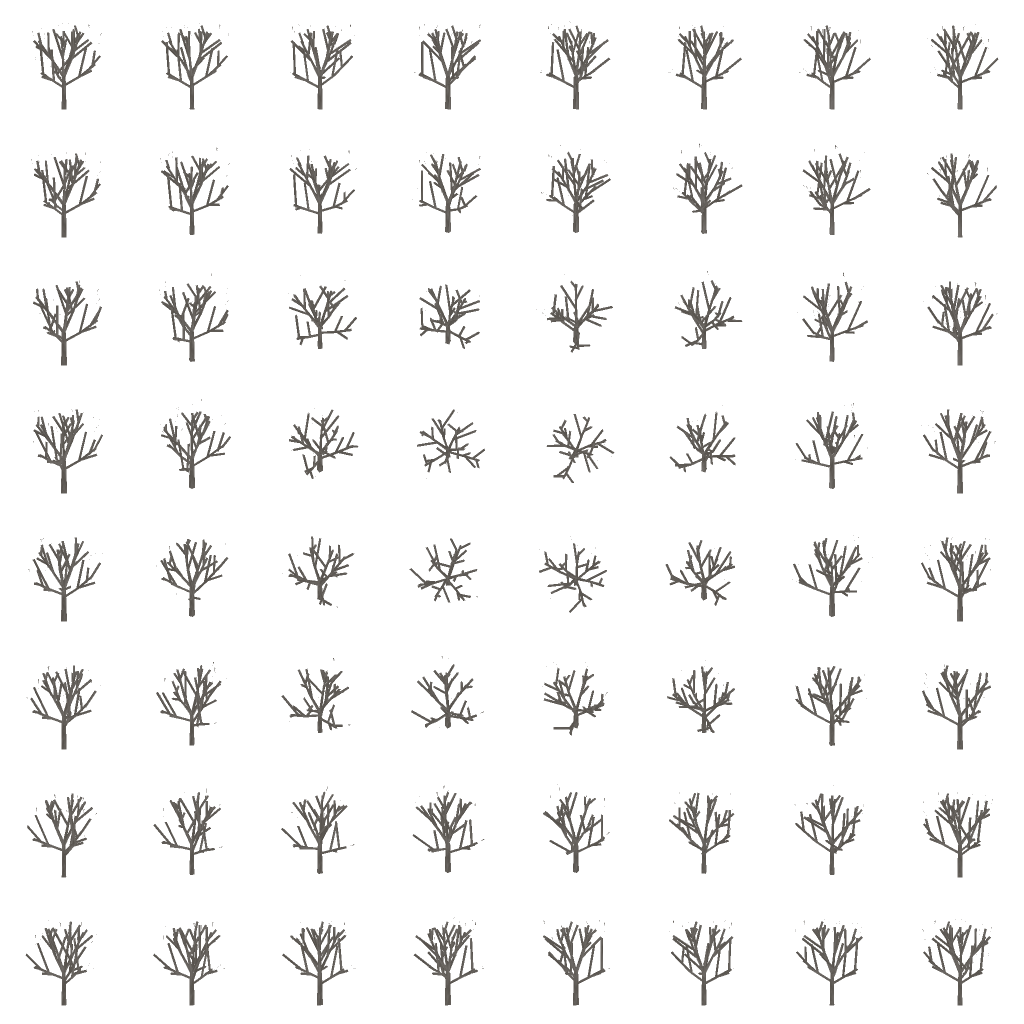
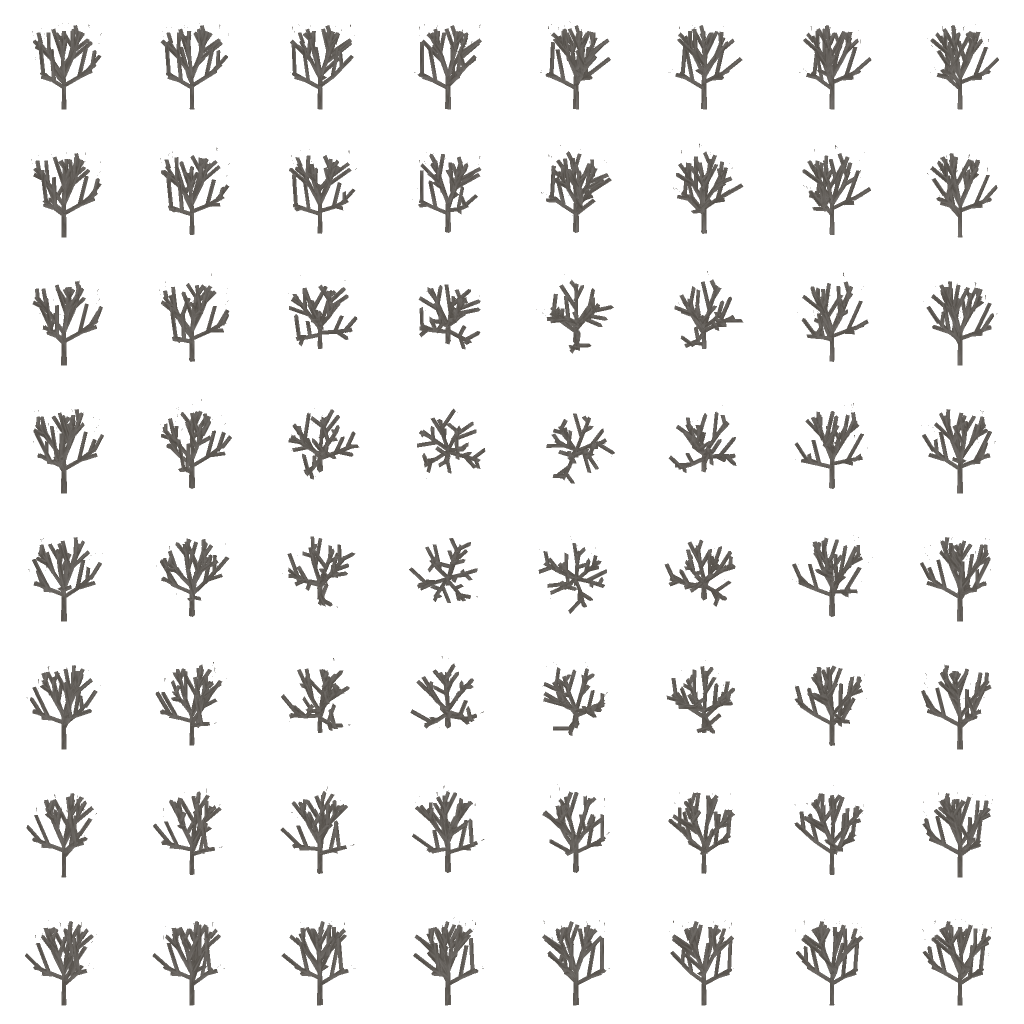
increase tree detail switch distance

diff --git a/AGENTS.md b/AGENTS.md
@@ -422,6 +422,10 @@ Each entry is the rule; the discovery story is in `PROGRESS.md` or the cited `hi
 - **An impostor has to show the level it replaces**, not the finest one. The bare tree baked from
   LOD 0 (four times LOD 2's twig cards) was a dark blob replacing an airy tree at 75 m; it bakes
   from LOD 2 (`Forest.impostor_source_level`), with its limbs widened to what LOD 2 draws there.
+- **A hand-over is a change of shape, so put it where it cannot be seen.** The levels differ in
+  fins, tiers and trunk, not just density; at 22 / 45 / 75 m a tree ~140 px tall morphed right ahead
+  of the racer. `Forest.LOD_ENDS` is 50 / 90 / 130 m — small and fogged — for ~0–5 % frame rate.
+  The bare impostor's limbs are widened for the last edge: re-bake it after moving that one.
 - **Per-object LOD cannot be a Godot visibility range on a `MultiMesh`**: the range switches the
   whole batch. `Forest` picks the level per tree in the vertex shader (out of band → collapse to a
   point) and uses node visibility ranges only to cull whole cells, with slack for the cell's reach.
@@ -682,7 +686,7 @@ Each entry is the rule; the discovery story is in `PROGRESS.md` or the cited `hi
 - **Conifers are 3D trees**, where ETR draws the same two crossed quads for every tree.
   `ConiferMesh` builds three levels from `snowy_tree1.png`, unchanged — radial fins carrying the
   picture's halves for the silhouette, drooping whorl cards for depth, a trunk at LOD 0 — and
-  `Forest` hands them over at 22 / 45 / 75 m with a 4 m Bayer-dithered cross-fade per tree, then
+  `Forest` hands them over at 50 / 90 / 130 m with a 4 m Bayer-dithered cross-fade per tree, then
   to a hemi-octahedral impostor (64 baked views, three blended, lit from a baked normal atlas).
   Upward faces are whitened in the shader by `[game] snowfall`; the tree sways with the watched
   racer's `WindField` and the snowfall. Same markers, same scale, same collision cylinder. The

diff --git a/PROGRESS.md b/PROGRESS.md
@@ -2199,3 +2199,19 @@ against those); nothing has been checked in a real browser, only under desktop C
 - **`[starttex]`, `[tracktex]` and `[stoptex]` are still unported.** They are the original's
   trackmark decal atlas indices, and the GPU trail map replaced the thing they index. Nothing
   needs them; listed so the gap in `terrains.lst` coverage is deliberate.
+
+---
+
+### Trees stopped morphing in front of the racer (2026-09-24) · **done**
+
+The forest's level hand-overs (`Forest.LOD_ENDS`) were at 22 / 45 / 75 m. A hand-over there is a
+visible change of shape — LOD 0 → 1 drops two fins, four whorl tiers and the trunk — on a tree
+still ~140 px tall a second or so ahead of the racer. They are now at **50 / 90 / 130 m**: a 6 m
+tree is ~60 px at the first (720p, 70°), ~35 px and half fogged at the second, and the impostor
+takes over where the 40–150 m fog has most of it. The 4 m dithered cross-fade is unchanged. The
+bare-tree impostor was re-baked, since its limbs are widened to what LOD 2 draws at the last edge.
+
+Frame rate, 1280x720, the container's integrated Radeon, vsync off, `paddle`, median of the
+`--print-fps` readings over 1500 frames, before → after: Bunny Hill 91 → 91 (Mobile), 159 → 157
+(Compatibility); `bronze_set` 103 → 98, 136 → 131. Within run-to-run noise to about 5 %. Not yet
+looked at in a browser.
